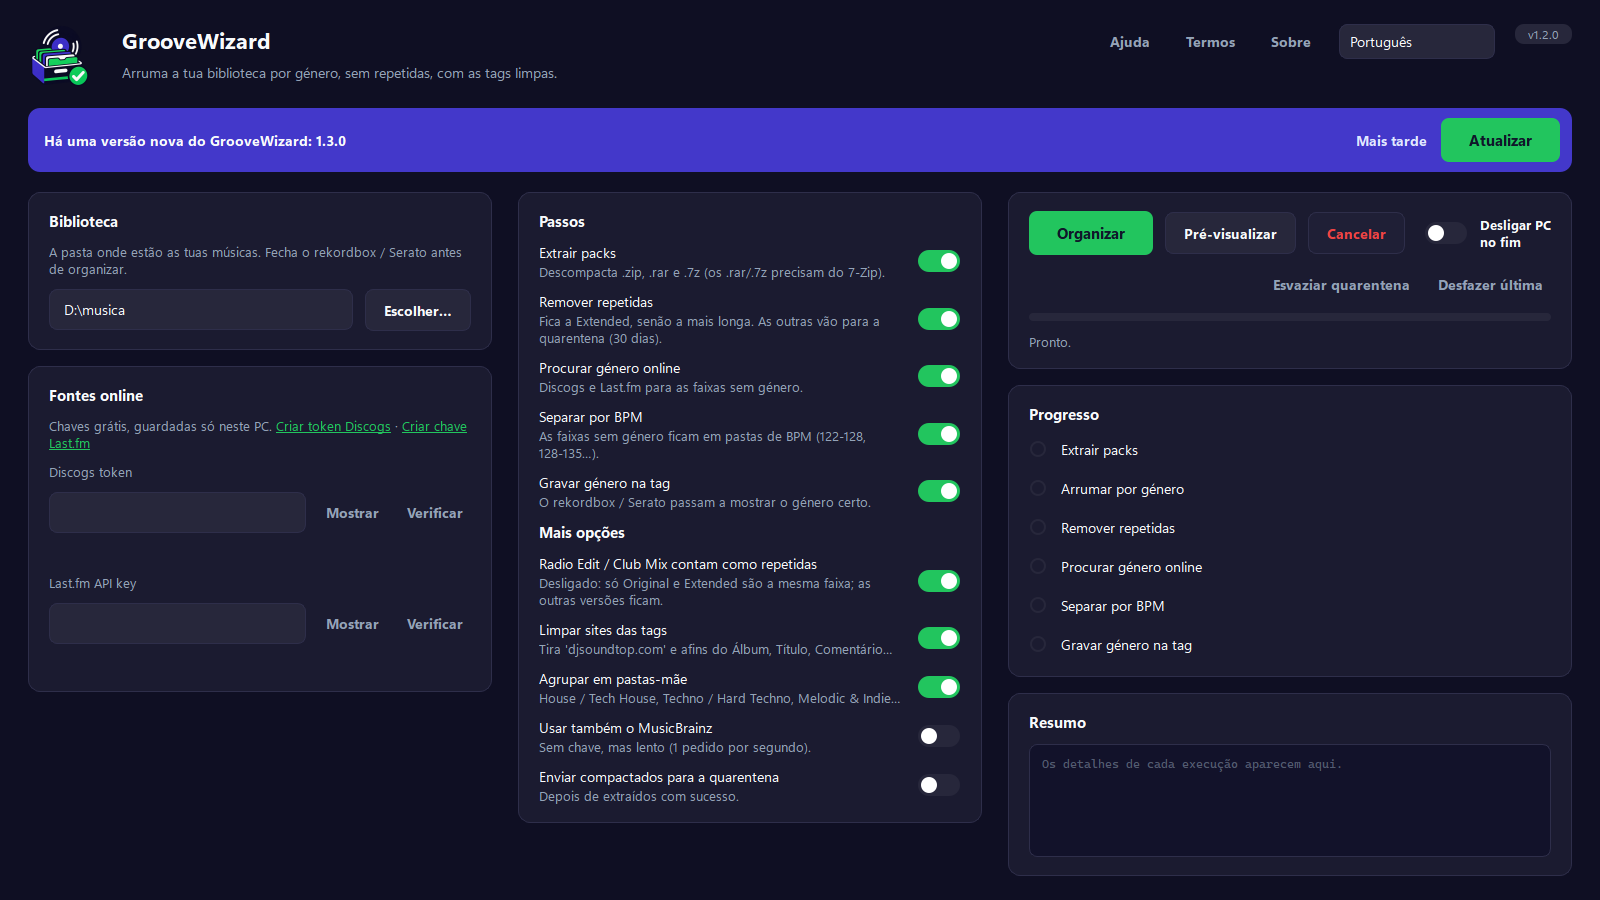
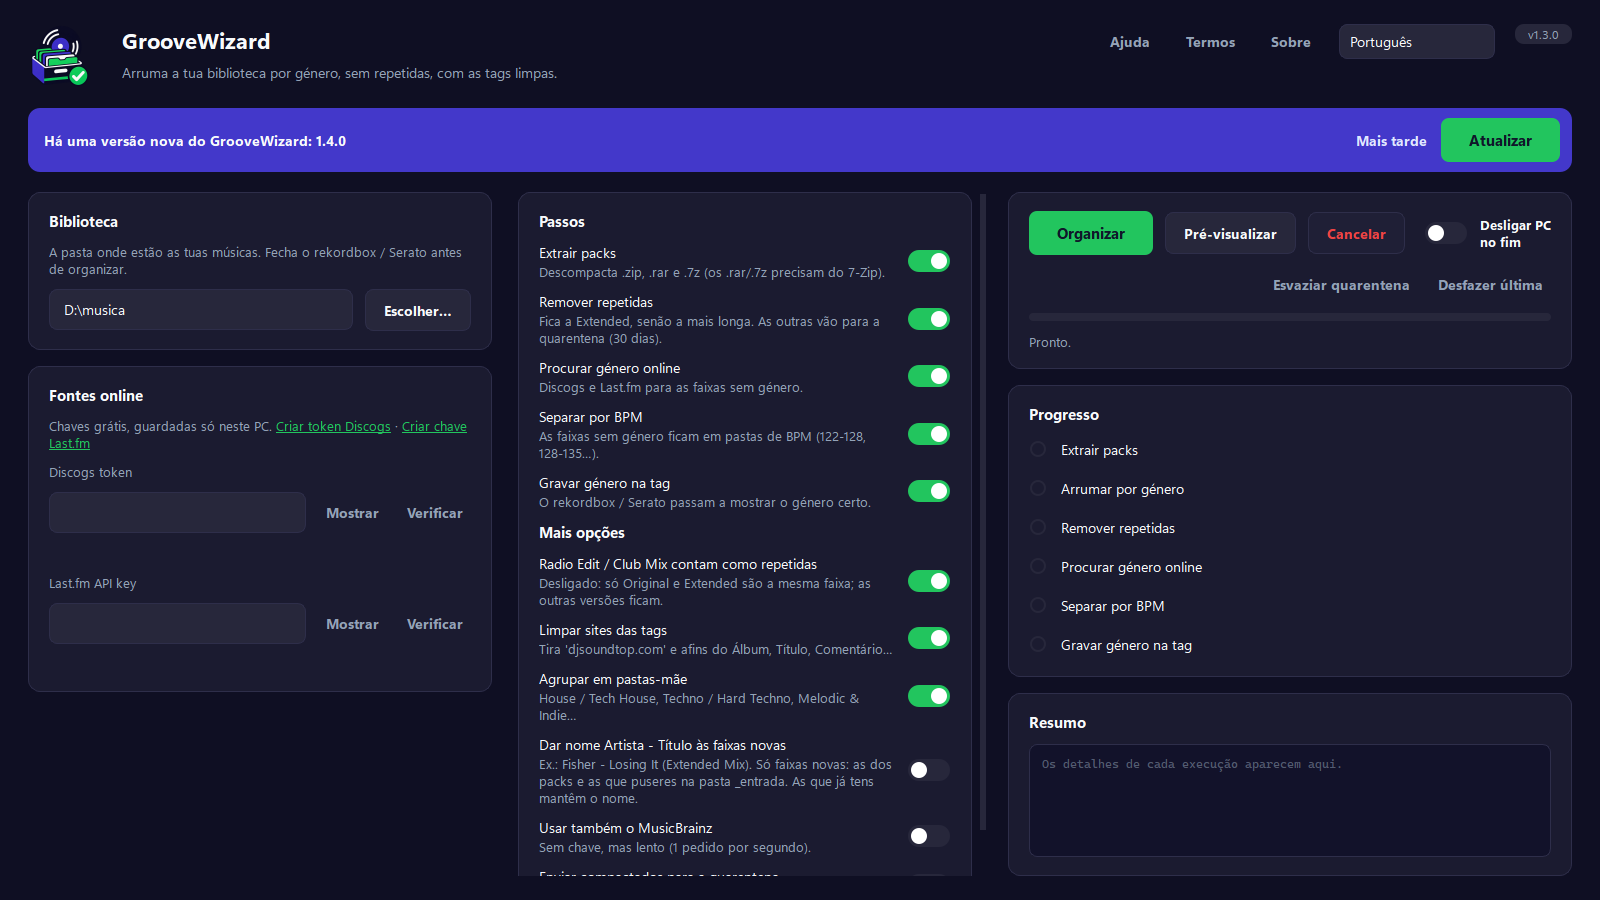
GrooveWizard 1.3.0: nome Artista - Título nas faixas novas
Nova opção (desligada por defeito): as faixas que saem dos packs ou que se põem em _entrada ficam com o nome 'Artista - Título (Versão)' a partir das tags. As faixas que já estão na biblioteca nunca mudam de nome, para o rekordbox não as perder. Nome ocupado, demasiado longo ou sem artista/título: fica o original. A Extended nunca perde a marca no nome (a deduplicação continua a preferi-la). Pré-visualização e desfazer incluídos.

diff --git a/organizador/pipeline.py b/organizador/pipeline.py
@@ -28,7 +28,7 @@ from .i18n import t
 from .online import Lookup
 from .regras import FAMILY_OF, FOLDER_NAMES, NO_GENRE, OTHER
 from .tags import (JUNK_TAG_SPAM, LIST_SEP, LOSSLESS, clean_sites, fix_tags, genre_from_folder, is_audio,
-                   normalize_genre, raw_genre, read_info, restore, search_terms, snapshot, track_key, version_label)
+                   normalize_genre, pack_file_name, raw_genre, read_info, restore, search_terms, snapshot, track_key, version_label)
 
 APP_DIR = os.path.join(os.environ.get("APPDATA") or os.path.expanduser("~"), "GrooveWizard")
 for _old in ("Cratekeeper", "OrganizadorMusica"):  # names before v1.2 / v0.2
@@ -73,6 +73,7 @@ class Options:
     families: bool = True
     folder_lang: str = "pt"  # language of Sem Genero / Outros / BPM folder names, fixed on first use
     merge_versions: bool = True  # Radio Edit / Club Mix count as the same song as the Extended Mix
+    rename_packs: bool = False  # new tracks (packs / _entrada) get 'Artist - Title (Mix)' names; never tracks elsewhere
 
 
 class Cancelled(Exception):
@@ -223,13 +224,33 @@ class Organizer:
             return here == target or here.startswith(target + os.sep)
         return here == target
 
+    @staticmethod
+    def name_usable(src, dst_dir, name):
+        """A new name is used only when it is free in the target folder (any case) and the path stays short enough
+        for Windows without long-path support (the ' (1)' suffix move() may add included)."""
+        if not name or os.path.normcase(name) == os.path.normcase(os.path.basename(src)):
+            return False
+        full = os.path.join(dst_dir, name)
+        u16 = lambda s: len(s.encode("utf-16-le")) // 2  # Windows limits count UTF-16 units (emoji = 2)
+        return not os.path.exists(full) and u16(full) + 4 < 255 and u16(name) < 250
+
+    def new_name(self, p, info):
+        """Only new tracks are renamed: extracted from packs or dropped in _entrada by the user. They are not in
+        rekordbox/Serato yet, so no link breaks; tracks anywhere else keep their name."""
+        if not (self.opts.rename_packs and self._in_inbox(p)) or info["unreadable"]:
+            return None
+        return pack_file_name(p, info)
+
     def _in_inbox(self, p):
         return os.path.normcase(p).startswith(os.path.normcase(os.path.join(self.root, INBOX)) + os.sep)
 
-    def move(self, src, dst_dir):
-        """Never overwrites and never deletes a file it did not create itself."""
+    def move(self, src, dst_dir, name=None):
+        """Never overwrites and never deletes a file it did not create itself. `name`: new file name, used only
+        when free (taken: the file keeps its own name, so nothing gets a ' (1)' just for the rename)."""
         os.makedirs(dst_dir, exist_ok=True)
-        base, ext = os.path.splitext(os.path.join(dst_dir, os.path.basename(src)))
+        if not self.name_usable(src, dst_dir, name):
+            name = None
+        base, ext = os.path.splitext(os.path.join(dst_dir, name or os.path.basename(src)))
         dst, i = base + ext, 1
         while os.path.exists(dst):
             dst, i = f"{base} ({i}){ext}", i + 1
@@ -472,8 +493,14 @@ class Organizer:
                 self.errors.append(t("err.unreadable", path=p))
                 continue
             g = self.plan_genre(p, infos[p])
-            if not self.in_place(p, g) and self.move(p, self.target_dir(g)):
+            if self.in_place(p, g):
+                continue
+            name = self.new_name(p, infos[p])
+            dst = self.move(p, self.target_dir(g), name)
+            if dst:
                 self.report[f"moved|{self.label(g)}"] += 1
+                if name and os.path.basename(dst) == name:
+                    self.report["renamed"] += 1
         inbox = os.path.join(self.root, INBOX)
         if os.path.isdir(inbox):
             done = self._done_archives()
@@ -662,6 +689,7 @@ class Organizer:
 
     def _preview(self):
         rep = Counter()
+        planned = set()
         if self.opts.extract:
             rep["archives_pending"] = len(self.pending_archives())
         files = list(self.audio_files())
@@ -673,6 +701,12 @@ class Organizer:
             g = self.plan_genre(p, info)
             if not self.in_place(p, g):
                 rep[f"to_move|{self.label(g)}"] += 1
+                name = self.new_name(p, info)
+                if self.name_usable(p, self.target_dir(g), name):
+                    key = os.path.normcase(os.path.join(self.target_dir(g), name))
+                    if key not in planned:  # two new tracks wanting the same name: only the first gets it
+                        planned.add(key)
+                        rep["rename_pending"] += 1
             elif self.opts.write_tags and self._genre_decision(p, info["genre"])[0] is not None:
                 rep["tags_pending"] += 1
         rep["tracks"] = len(files)

diff --git a/tests/test_pipeline.py b/tests/test_pipeline.py
@@ -125,6 +125,64 @@ def test_full_run_and_undo():
     assert pl.undo_last(root)[0]["undo_nothing"] == 1
 
 
+def test_rename_packs():
+    root = os.path.join(TMP, "ren")
+    loose = make(os.path.join(root, "solta", "x_minha.wav"), 1, "A", "Mine", "Tech House")  # already in the library
+    taken = make(os.path.join(root, "House", "Tech House", "C - Taken.wav"), 3, "Z", "Other", "Tech House")
+    src = os.path.join(TMP, "renpack")
+    files = [make(os.path.join(src, "01-fisher-losing_it_(extended_mix)-tr.wav"), 1, "Fisher", "Losing It", "Tech House"),
+             make(os.path.join(src, "02 - sem tags.wav"), 1, None, None, "Tech House"),
+             make(os.path.join(src, "03-c-taken.wav"), 1, "C", "Taken", "Tech House"),  # name already used there
+             make(os.path.join(src, "04 - x.wav"), 1, "AC/DC", "What? Now", "Tech House")]
+    with zipfile.ZipFile(os.path.join(root, "pack.zip"), "w") as z:
+        for f in files:
+            z.write(f, os.path.basename(f))
+    make(os.path.join(root, pl.INBOX, "solta nova.wav"), 1, "Bob", "New One (Club Mix)", "Tech House")  # loose, not a pack
+    opts = pl.Options(root=root, online=False, bpm_folders=False, dedupe=False, rename_packs=True)
+    rep, errs = pl.Organizer(opts).run()
+    assert not errs, errs
+    th = os.path.join(root, "House", "Tech House")
+    names = sorted(os.listdir(th))
+    assert "Fisher - Losing It (Extended Mix).wav" in names, names
+    assert "AC DC - What Now.wav" in names, names
+    assert "Bob - New One (Club Mix).wav" in names, names
+    assert "02 - sem tags.wav" in names and "03-c-taken.wav" in names, names  # unsure / taken: original name
+    assert "x_minha.wav" in names, "a track already in the library is never renamed"
+    assert rep["renamed"] == 3, rep
+    assert os.path.exists(taken)
+    rep, errs = pl.undo_last(root)
+    assert not errs, errs
+    assert os.path.exists(loose) and not os.path.exists(os.path.join(th, "Fisher - Losing It (Extended Mix).wav"))
+    # default: off
+    assert pl.Options().rename_packs is False
+
+    # the Extended only said so in its old name: renaming must not make it lose against the Original
+    root = os.path.join(TMP, "ren2")
+    make(os.path.join(root, "House", "Tech House", "A - Track (Original Mix).wav"), 2, "A", "Track", "Tech House")
+    make(os.path.join(root, pl.INBOX, "a-track-extended_mix.wav"), 2, "A", "Track", "Tech House")
+    make(os.path.join(root, pl.INBOX, "b-song-extended.wav"), 1, "B", "Song", "Tech House")  # no way to carry it
+    org = pl.Organizer(pl.Options(root=root, online=False, bpm_folders=False, rename_packs=True))
+    assert org.preview()["rename_pending"] == 1
+    rep, errs = org.run()
+    assert not errs, errs
+    names = sorted(os.listdir(os.path.join(root, "House", "Tech House")))
+    assert names == ["A - Track (Extended Mix).wav", "b-song-extended.wav"], names
+    # preview and run agree when the new name is taken
+    root = os.path.join(TMP, "ren3")
+    make(os.path.join(root, "House", "Tech House", "fisher - losing it.wav"), 3, "X", "Y", "Tech House")
+    make(os.path.join(root, pl.INBOX, "01.wav"), 1, "Fisher", "Losing It", "Tech House")
+    org = pl.Organizer(pl.Options(root=root, online=False, bpm_folders=False, dedupe=False, rename_packs=True))
+    assert "rename_pending" not in org.preview()
+    assert org.run()[0]["renamed"] == 0
+    # two new tracks wanting the same name: preview counts one, like the run
+    root = os.path.join(TMP, "ren4")
+    make(os.path.join(root, pl.INBOX, "x1.wav"), 1, "Q", "Same", "Tech House")
+    make(os.path.join(root, pl.INBOX, "x2.mp3".replace(".mp3", ".wav")), 3, "Q", "Same", "Tech House")
+    org = pl.Organizer(pl.Options(root=root, online=False, bpm_folders=False, dedupe=False, rename_packs=True))
+    assert org.preview()["rename_pending"] == 1
+    assert org.run()[0]["renamed"] == 1
+
+
 def test_quarantine_ownership():
     root = os.path.join(TMP, "qown")
     user_q = os.path.join(root, pl.QUARANTINE)
@@ -194,6 +252,7 @@ if __name__ == "__main__":
         test_lock()
         test_quarantine_ownership()
         test_full_run_and_undo()
+        test_rename_packs()
         print("ok")
     finally:
         shutil.rmtree(TMP, ignore_errors=True)

diff --git a/organizador/i18n.py b/organizador/i18n.py
@@ -93,6 +93,8 @@ S = {
     "opt.merge_versions": {"pt": "Radio Edit / Club Mix contam como repetidas", "en": "Radio Edit / Club Mix count as duplicates"},
     "opt.merge_versions_d": {"pt": "Desligado: só Original e Extended são a mesma faixa; as outras versões ficam.",
                              "en": "Off: only Original and Extended are the same track; other versions are kept."},
+    "opt.rename_packs": {"pt": "Dar nome Artista - Título às faixas novas", "en": "Name new tracks Artist - Title"},
+    "opt.rename_packs_d": {"pt": "Ex.: Fisher - Losing It (Extended Mix). Só faixas novas: as dos packs e as que puseres na pasta _entrada. As que já tens mantêm o nome.", "en": "E.g. Fisher - Losing It (Extended Mix). Only new tracks: from packs and those you put in the _entrada folder. Tracks you already have keep their name."},
     "opt.delete_archives": {"pt": "Enviar compactados para a quarentena", "en": "Move archives to quarantine"},
     "opt.delete_archives_d": {"pt": "Depois de extraídos com sucesso.", "en": "After they were extracted successfully."},
     # actions
@@ -147,9 +149,9 @@ S = {
     "state.error": {"pt": "parado", "en": "stopped"},
     # dialogs
     "msg.pick_folder": {"pt": "Escolhe a pasta das músicas.", "en": "Choose your music folder."},
-    "msg.run_confirm": {"pt": "Vai mover e renomear ficheiros em:\n{root}\n\nO rekordbox / Serato tem de estar fechado. "
+    "msg.run_confirm": {"pt": "Vai organizar os ficheiros em:\n{root}\n\nO rekordbox / Serato tem de estar fechado. "
                               "No fim faz 'Relocate' nele.\n\nContinuar?",
-                        "en": "This will move and rename files in:\n{root}\n\nrekordbox / Serato must be closed. "
+                        "en": "This will organize the files in:\n{root}\n\nrekordbox / Serato must be closed. "
                               "Afterwards, use 'Relocate' in it.\n\nContinue?"},
     "msg.undo_confirm": {"pt": 'Desfazer a última execução?\nAs faixas voltam ao sítio, o que foi para a quarentena regressa e as tags originais são repostas.', "en": 'Undo the last run?\nFiles go back where they were, quarantined files return and the original tags are restored.'},
     "msg.close_running": {"pt": "Ainda está a trabalhar. Cancelar e fechar quando terminar o ficheiro atual?",
@@ -191,6 +193,8 @@ S = {
     "rep.archives_pending": {"pt": "compactados por extrair", "en": "archives to extract"},
     "rep.to_move": {"pt": "a mover para {x}", "en": "to move to {x}"},
     "rep.unreadable": {"pt": "faixas com tags estragadas (ficam onde estão)", "en": "tracks with damaged tags (left in place)"},
+    "rep.renamed": {"pt": "faixas novas com nome Artista - Título", "en": "new tracks renamed Artist - Title"},
+    "rep.rename_pending": {"pt": "faixas novas a renomear Artista - Título", "en": "new tracks to rename Artist - Title"},
     "rep.tracks": {"pt": "faixas", "en": "tracks"},
     "rep.dups_pending": {"pt": "repetidas a remover", "en": "duplicates to remove"},
     "rep.undo_returned": {"pt": "faixas devolvidas", "en": "files moved back"},

diff --git a/organizador/ajuda.py b/organizador/ajuda.py
@@ -51,6 +51,11 @@ HELP = {
   <li><b>Outros:</b> géneros com poucas faixas (Pop, Hardstyle, Rock…). O género verdadeiro fica na tag.</li>
   <li><b>BPM:</b> <code>Sem Genero</code> e <code>Outros</code> ficam divididos em pastas de BPM.</li>
   <li><b>Tags:</b> o género da pasta é gravado na tag Genre; nomes de sites de download saem do Álbum, Título, etc.</li>
+  <li><b>Nomes</b> (opção, desligada por defeito): as faixas novas ficam com o nome
+      <code>Artista - Título (Extended Mix)</code>: artista e título vêm das tags; a versão vem do título
+      e, se lá não estiver, do nome antigo do ficheiro. Novas são as que saem dos packs e as que
+      puseres na pasta <code>_entrada</code> dentro da biblioteca (cria-a se não existir). As que já tinhas mantêm o nome, para o rekordbox
+      não as perder. Se faltar artista ou título nas tags, ou o nome já existir na pasta, fica o nome original.</li>
 </ul>
 <h3>Enganei-me, e agora?</h3>
 <p><b>Desfazer última</b> tenta anular a última execução: devolve os ficheiros ao sítio onde estavam, tira da quarentena
@@ -98,6 +103,11 @@ HELP = {
   <li><b>Other:</b> genres with few tracks (Pop, Hardstyle, Rock…). The real genre stays in the tag.</li>
   <li><b>BPM:</b> <code>No Genre</code> and <code>Other</code> are split into BPM folders.</li>
   <li><b>Tags:</b> the folder's genre is written to the Genre tag; download-site names are removed from Album, Title, etc.</li>
+  <li><b>Names</b> (option, off by default): new tracks are named
+      <code>Artist - Title (Extended Mix)</code>: artist and title come from the tags; the version from the title,
+      or else from the old file name. New means extracted from packs or put in the
+      <code>_entrada</code> folder inside the library (create it if it isn't there). Tracks you already had keep their name, so rekordbox
+      doesn't lose them. Without artist or title in the tags, or if the name is taken in the folder, the original name stays.</li>
 </ul>
 <h3>Made a mistake?</h3>
 <p><b>Undo last run</b> tries to revert the last run: files go back where they were, removed duplicates and junk come out of

diff --git a/organizador/tags.py b/organizador/tags.py
@@ -210,6 +210,33 @@ def _name_title(path):
     return stem.split(" - ", 1)[1] if " - " in stem else ""
 
 
+_BAD_NAME_LEN = 120  # characters; the full path is checked again before the move
+_BARE_VERSION = re.compile(r"\b(?:extended|original|club|radio|dub|instrumental|vocal)\s+(?:mix|edit|version)\b", re.I)
+_BAD_NAME = re.compile(r'[<>:"/\\|?*\x00-\x1f]')
+
+
+def pack_file_name(path, info):
+    """'Artist - Title (Extended Mix).ext' from the tags, for tracks that came out of a pack; None when unsure.
+    The version comes from the title tag, else from the current file name; none is invented. If the old name says
+    'extended' and the new one would not, the file keeps its name (dedupe prefers Extended by name)."""
+    a, t = strip_sites(info.get("artist") or "").strip(), strip_sites(info.get("title") or "").strip()
+    if not (a and t):
+        return None
+    if not _REMIX.search(t):  # 'Groove' in the tag, 'Groove (Extended Mix)' in the file name
+        old = os.path.splitext(os.path.basename(path))[0].replace("_", " ")
+        found = _REMIX.findall(old) or [m.group(0) for m in _BARE_VERSION.finditer(old)]
+        if found:
+            v = found[-1].strip()
+            t = f"{t} ({v.title() if v == v.lower() else v})"  # scene names are all lower case
+    name = _BAD_NAME.sub(" ", f"{a} - {t}")
+    name = re.sub(r"\s+", " ", name).strip(" .")[:_BAD_NAME_LEN].strip(" .")
+    if not re.search(r"\w", name):
+        return None
+    if re.search(r"extended", os.path.basename(path), re.I) and not re.search(r"extended", name, re.I):
+        return None
+    return name + os.path.splitext(path)[1].lower()
+
+
 def version_label(path, info=None):
     """'extended mix', 'radio edit', 'x remix'... from the title (tag, else file name); '' when none."""
     at = artist_title(path, info)

diff --git a/organizador/gui.py b/organizador/gui.py
@@ -18,7 +18,7 @@ from .theme import C, QSS
 # (Options field, pipeline step ids shown on that row). "_organize" always runs.
 STEPS = [("extract", ["extract"]), ("_organize", ["organize"]), ("dedupe", ["dedupe_scan", "dedupe_remove"]),
          ("online", ["online"]), ("bpm_folders", ["bpm"]), ("write_tags", ["tags"])]
-EXTRA_OPTIONS = ["merge_versions", "clean_sites", "families", "musicbrainz", "delete_archives"]
+EXTRA_OPTIONS = ["merge_versions", "clean_sites", "families", "rename_packs", "musicbrainz", "delete_archives"]
 ICON = os.path.join(os.path.dirname(os.path.abspath(__file__)), "recursos", "groovewizard-icone.png")  # symbol without tile: reads bigger
 LOGO = os.path.join(os.path.dirname(os.path.abspath(__file__)), "recursos", "groovewizard-simbolo.png")  # no tile: sits on the dark header
 

diff --git a/organizador/__init__.py b/organizador/__init__.py
@@ -1,2 +1,2 @@
 """GrooveWizard: sorts a DJ music library by genre."""
-__version__ = "1.2.1"
+__version__ = "1.3.0"

diff --git a/README.md b/README.md
@@ -27,7 +27,8 @@ Called <i>Cratekeeper</i> up to 1.1.0; updating keeps settings, keys and history
 4. **Procura online** o género das faixas sem género: Discogs (estilos dos lançamentos onde a faixa aparece), Last.fm e, opcionalmente, MusicBrainz (estes dois por artista). O resultado é mapeado para as pastas da app; é uma estimativa, não uma garantia.
 5. **Separa por BPM** as pastas `Sem Genero` e `Outros` (`BPM 122-128`, `BPM 128-135`, …).
 6. **Corrige as tags**: grava o género da pasta na tag Genre (o rekordbox/Serato passam a mostrar esse género) e tira nomes de sites de download do Álbum, Título, Comentário, etc.
-7. **Agrupa em pastas-mãe**: `House/Tech House`, `Techno/Hard Techno`, `Melodic & Indie/…`, `Bass & Breaks/…`, `Dance & Mainstage/…`.
+7. **Dá nome às faixas novas** (opção): as que saem dos packs, ou que puseres na pasta `_entrada` dentro da biblioteca, ficam `Artista - Título (Extended Mix)`: artista e título das tags, a versão do título ou, se lá não estiver, do nome antigo. As que já tinhas não mudam de nome, para o rekordbox continuar a encontrá-las.
+8. **Agrupa em pastas-mãe**: `House/Tech House`, `Techno/Hard Techno`, `Melodic & Indie/…`, `Bass & Breaks/…`, `Dance & Mainstage/…`.
 
 **Formatos de áudio:** MP3, FLAC, AIFF/AIF, WAV e M4A.
 
@@ -128,7 +129,7 @@ python app.py
 > ⚠ **Back up your music before the first run.** GrooveWizard moves files and edits tags. Preview, Undo and the
 > quarantine are safeguards, not a backup.
 
-**What it does:** extracts downloaded packs (zip/rar/7z, nested too; rar/7z need [7-Zip](https://7-zip.org)), sorts tracks into genre/subgenre folders (by Genre tag, else by pack name), removes duplicates (same artists + title; keeps the Extended Mix when the file name or title says so, else the longest, else lossless; different remixes and recordings with very different lengths are kept), looks up missing genres online (Discogs styles of matching releases; Last.fm and MusicBrainz per artist — an estimate, not a guarantee), splits tracks without a genre by BPM and cleans tags (genre written from the folder; download-site names removed from Album/Title/Comment). Formats: MP3, FLAC, AIFF/AIF, WAV, M4A.
+**What it does:** extracts downloaded packs (zip/rar/7z, nested too; rar/7z need [7-Zip](https://7-zip.org)), sorts tracks into genre/subgenre folders (by Genre tag, else by pack name), removes duplicates (same artists + title; keeps the Extended Mix when the file name or title says so, else the longest, else lossless; different remixes and recordings with very different lengths are kept), looks up missing genres online (Discogs styles of matching releases; Last.fm and MusicBrainz per artist — an estimate, not a guarantee), splits tracks without a genre by BPM, optionally names new tracks (from packs, or put in the library's `_entrada` folder) `Artist - Title (Extended Mix)` (artist and title from the tags; the version from the title, else from the old file name) (tracks you already had keep their name, so rekordbox still finds them) and cleans tags (genre written from the folder; download-site names removed from Album/Title/Comment). Formats: MP3, FLAC, AIFF/AIF, WAV, M4A.
 
 **Safeguards:** Preview changes nothing (it cannot predict tracks still inside packs, online results or site cleaning). Undo last run tries to restore files, original tags and pack extraction, and lists anything it could not restore (deleted, changed by hand, emptied from quarantine, name taken). Removed files go to a hidden `_quarentena` folder; after 30 days they are sent to the Recycle Bin on the next run, or at once with *Empty quarantine*. Tags are written to a verified copy first; files mutagen cannot open at all are never moved or edited. Folders left empty are removed at the end. Dangerous folders are refused; two windows cannot organize the same library.
 
